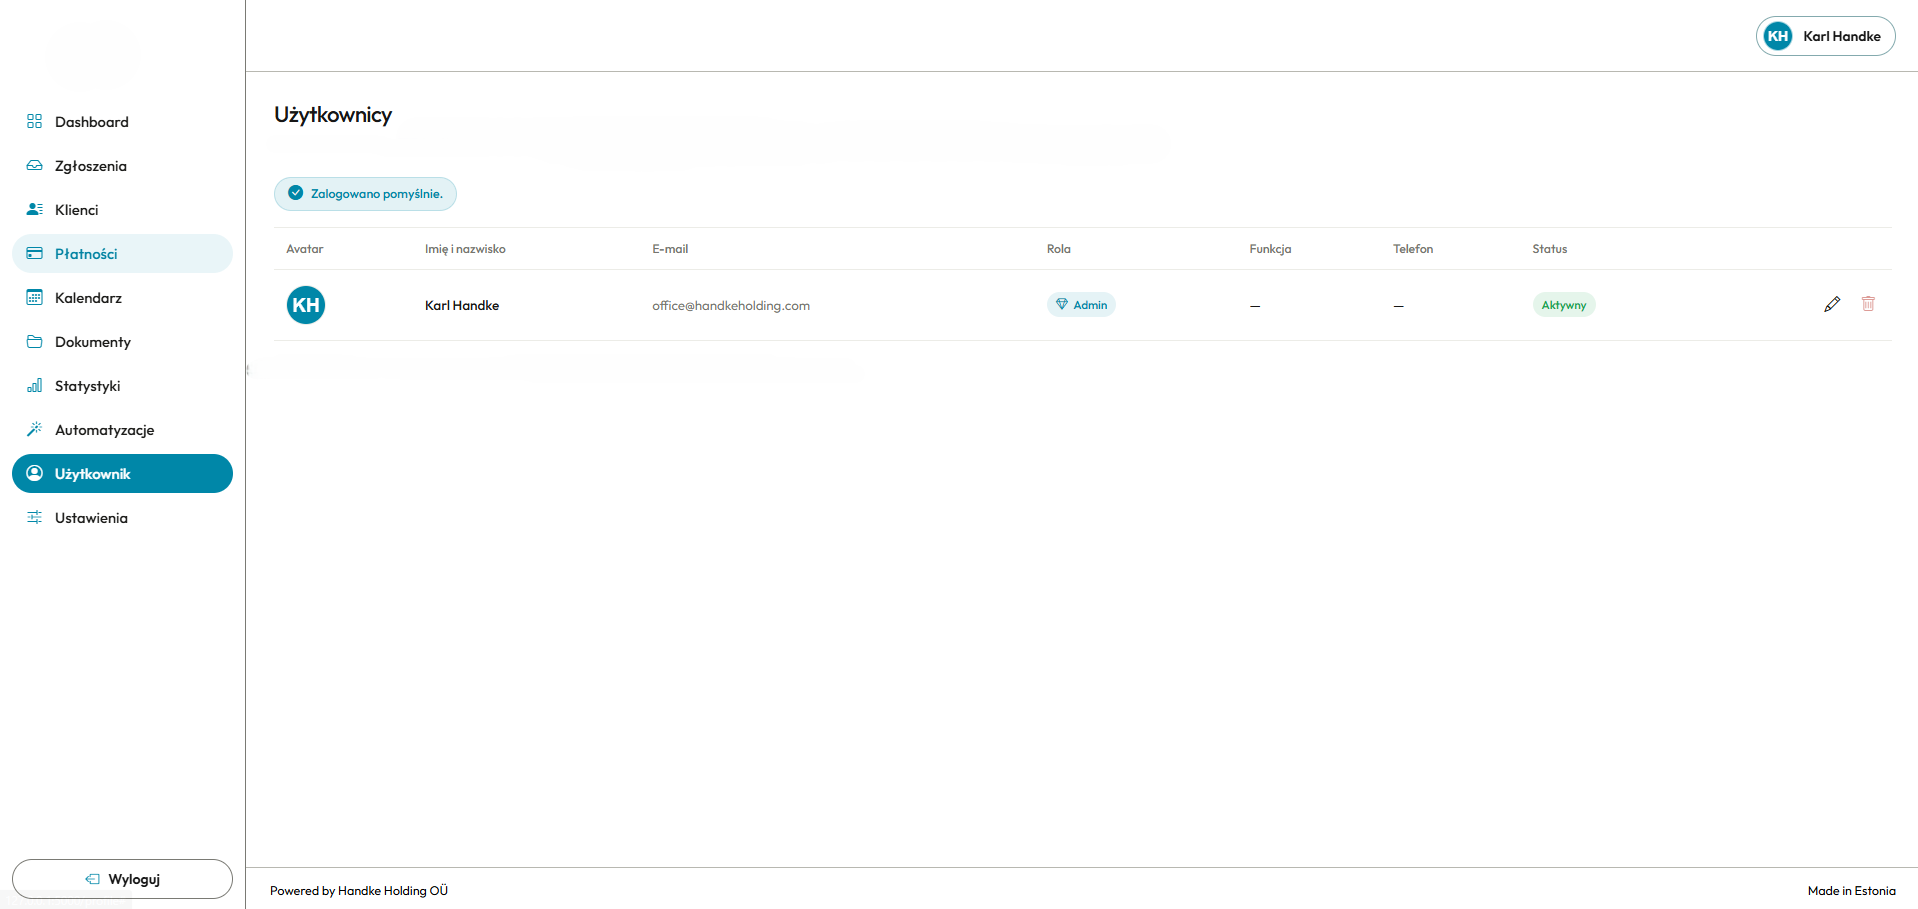
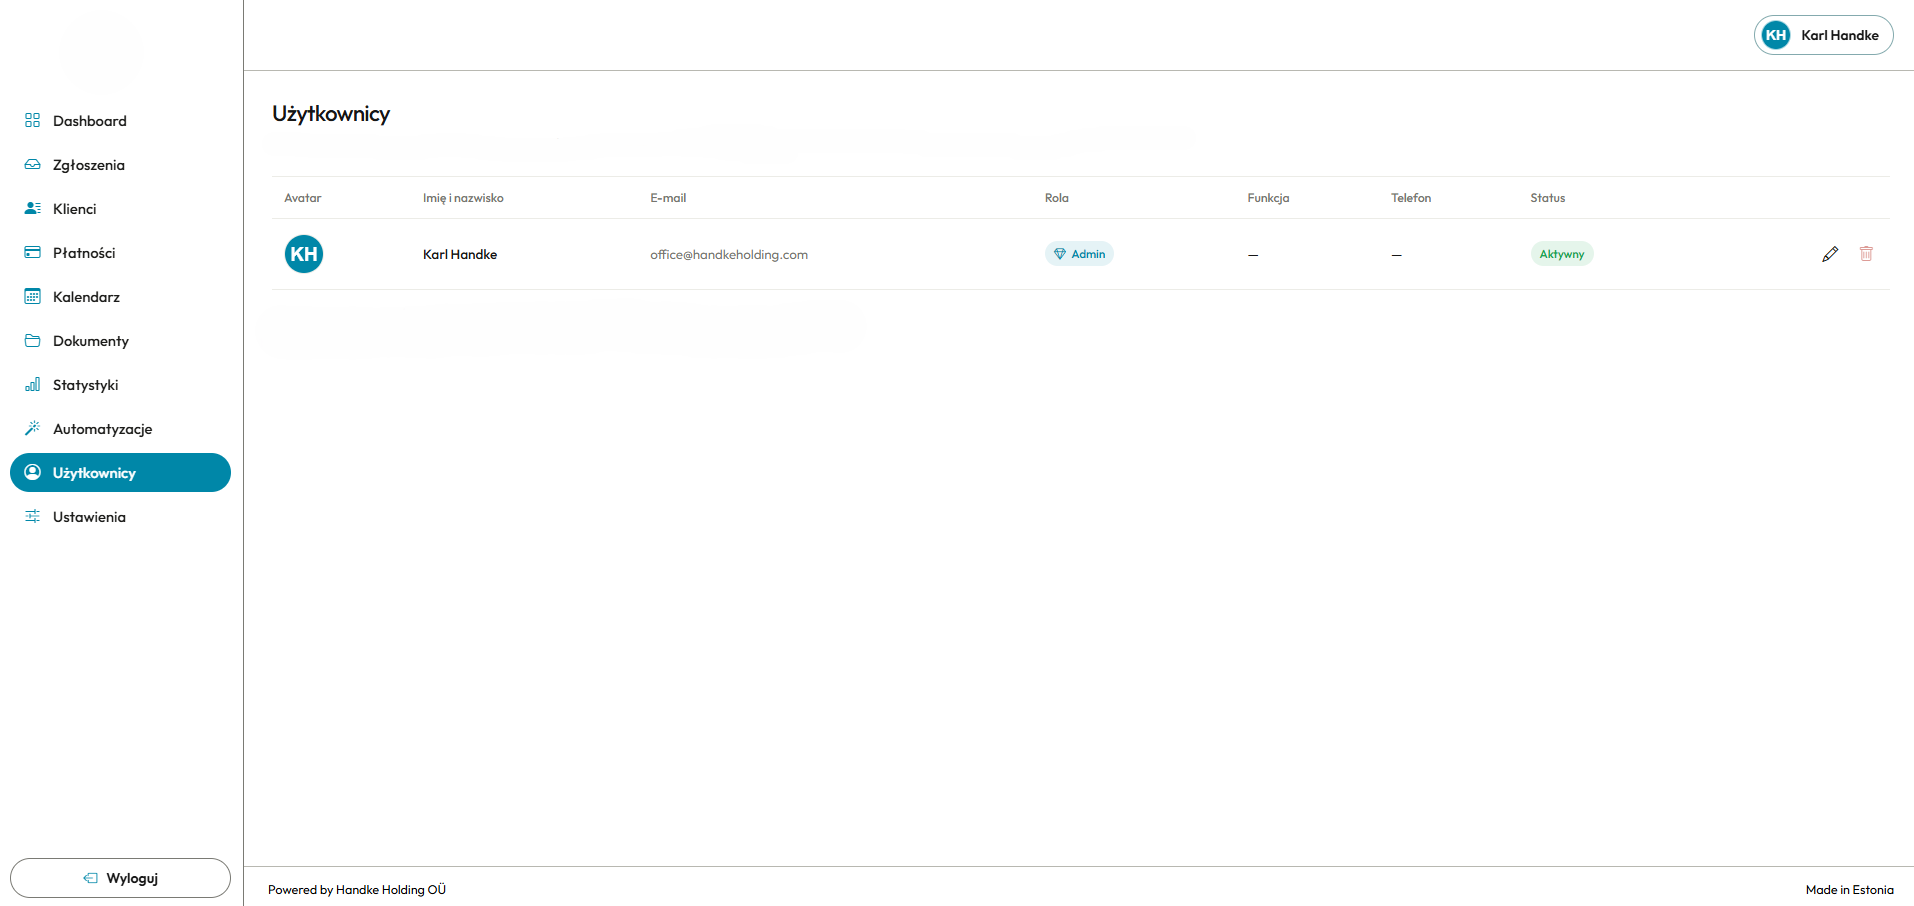
Update SDE styles and marketing content

diff --git a/frontend/src/styles/globals.css b/frontend/src/styles/globals.css
@@ -8543,3 +8543,53 @@ body.mobile-menu-open .scroll-to-top {
     transform: none !important;
   }
 }
+
+/* =========================
+   FORCE BLUE BUTTONS
+   replaces navy buttons with bright SDE blue
+========================= */
+
+:root {
+  --sde-action-blue: #00a8ff;
+  --sde-action-blue-soft: #65b4ff;
+}
+
+/* Main navy buttons -> blue */
+.about-section__link,
+.automation-areas-cta__button,
+.project-analysis-form__button,
+.services-bottom-action__button:not(.services-bottom-action__button--light) {
+  background: var(--sde-action-blue) !important;
+  border-color: var(--sde-action-blue) !important;
+  color: #ffffff !important;
+}
+
+/* Hover for blue buttons */
+.about-section__link:hover,
+.automation-areas-cta__button:hover,
+.project-analysis-form__button:hover,
+.services-bottom-action__button:not(.services-bottom-action__button--light):hover {
+  background: transparent !important;
+  border-color: var(--sde-action-blue) !important;
+  color: var(--sde-action-blue) !important;
+}
+
+/* Light secondary services button hover - was navy */
+.services-bottom-action__button--light:hover {
+  background: var(--sde-action-blue) !important;
+  border-color: var(--sde-action-blue) !important;
+  color: #ffffff !important;
+}
+
+/* Optional: numbered process circles that were navy */
+.implementation-process-step > span {
+  background: var(--sde-action-blue) !important;
+  color: #ffffff !important;
+}
+
+/* Optional: cards that turned navy on hover */
+.why-card:hover,
+.service-detail-grid article:hover {
+  background: var(--sde-action-blue) !important;
+  border-color: var(--sde-action-blue) !important;
+}

diff --git a/frontend/src/components/sections/EnContactSection.jsx b/frontend/src/components/sections/EnContactSection.jsx
@@ -72,7 +72,7 @@ setStatusMessage("Thank you. Your message has been sent.");
         <div className="contact-section__content">
           <p className="contact-section__kicker">Contact</p>
 
-          <h2>Your competitors are already using AI. Now it is your turn.</h2>
+          <h2>Your competitors are already using AI.<br />Now it is your turn.</h2>
 
           <p className="contact-section__lead">
             Send us a short message describing what you need: a CRM system, SaaS

diff --git a/frontend/src/components/sections/EeContactSection.jsx b/frontend/src/components/sections/EeContactSection.jsx
@@ -72,7 +72,7 @@ setStatusMessage("Aitäh. Sõnum on saadetud.");
         <div className="contact-section__content">
           <p className="contact-section__kicker">Kontakt</p>
 
-          <h2>Teie konkurendid kasutavad juba AI-d. Nüüd on teie kord.</h2>
+          <h2>Teie konkurendid kasutavad juba AI-d. <br />Nüüd on teie kord.</h2>
 
           <p className="contact-section__lead">
             Kirjutage meile lühidalt, mida vajate: CRM-i, SaaS-lahendust,

diff --git a/frontend/src/components/sections/ContactSection.jsx b/frontend/src/components/sections/ContactSection.jsx
@@ -78,7 +78,7 @@ function ContactSection() {
         <div className="contact-section__content">
           <p className="contact-section__kicker">Kontakt</p>
 
-          <h2>Twoja konkurencja już korzysta z AI. Teraz czas na Ciebie.</h2>
+          <h2>Twoja konkurencja już korzysta z AI. <br />Teraz czas na Ciebie.</h2>
 
           <p className="contact-section__lead">
             Napisz do nas krótko, czego potrzebujesz: CRM, SaaS, formularza online,
